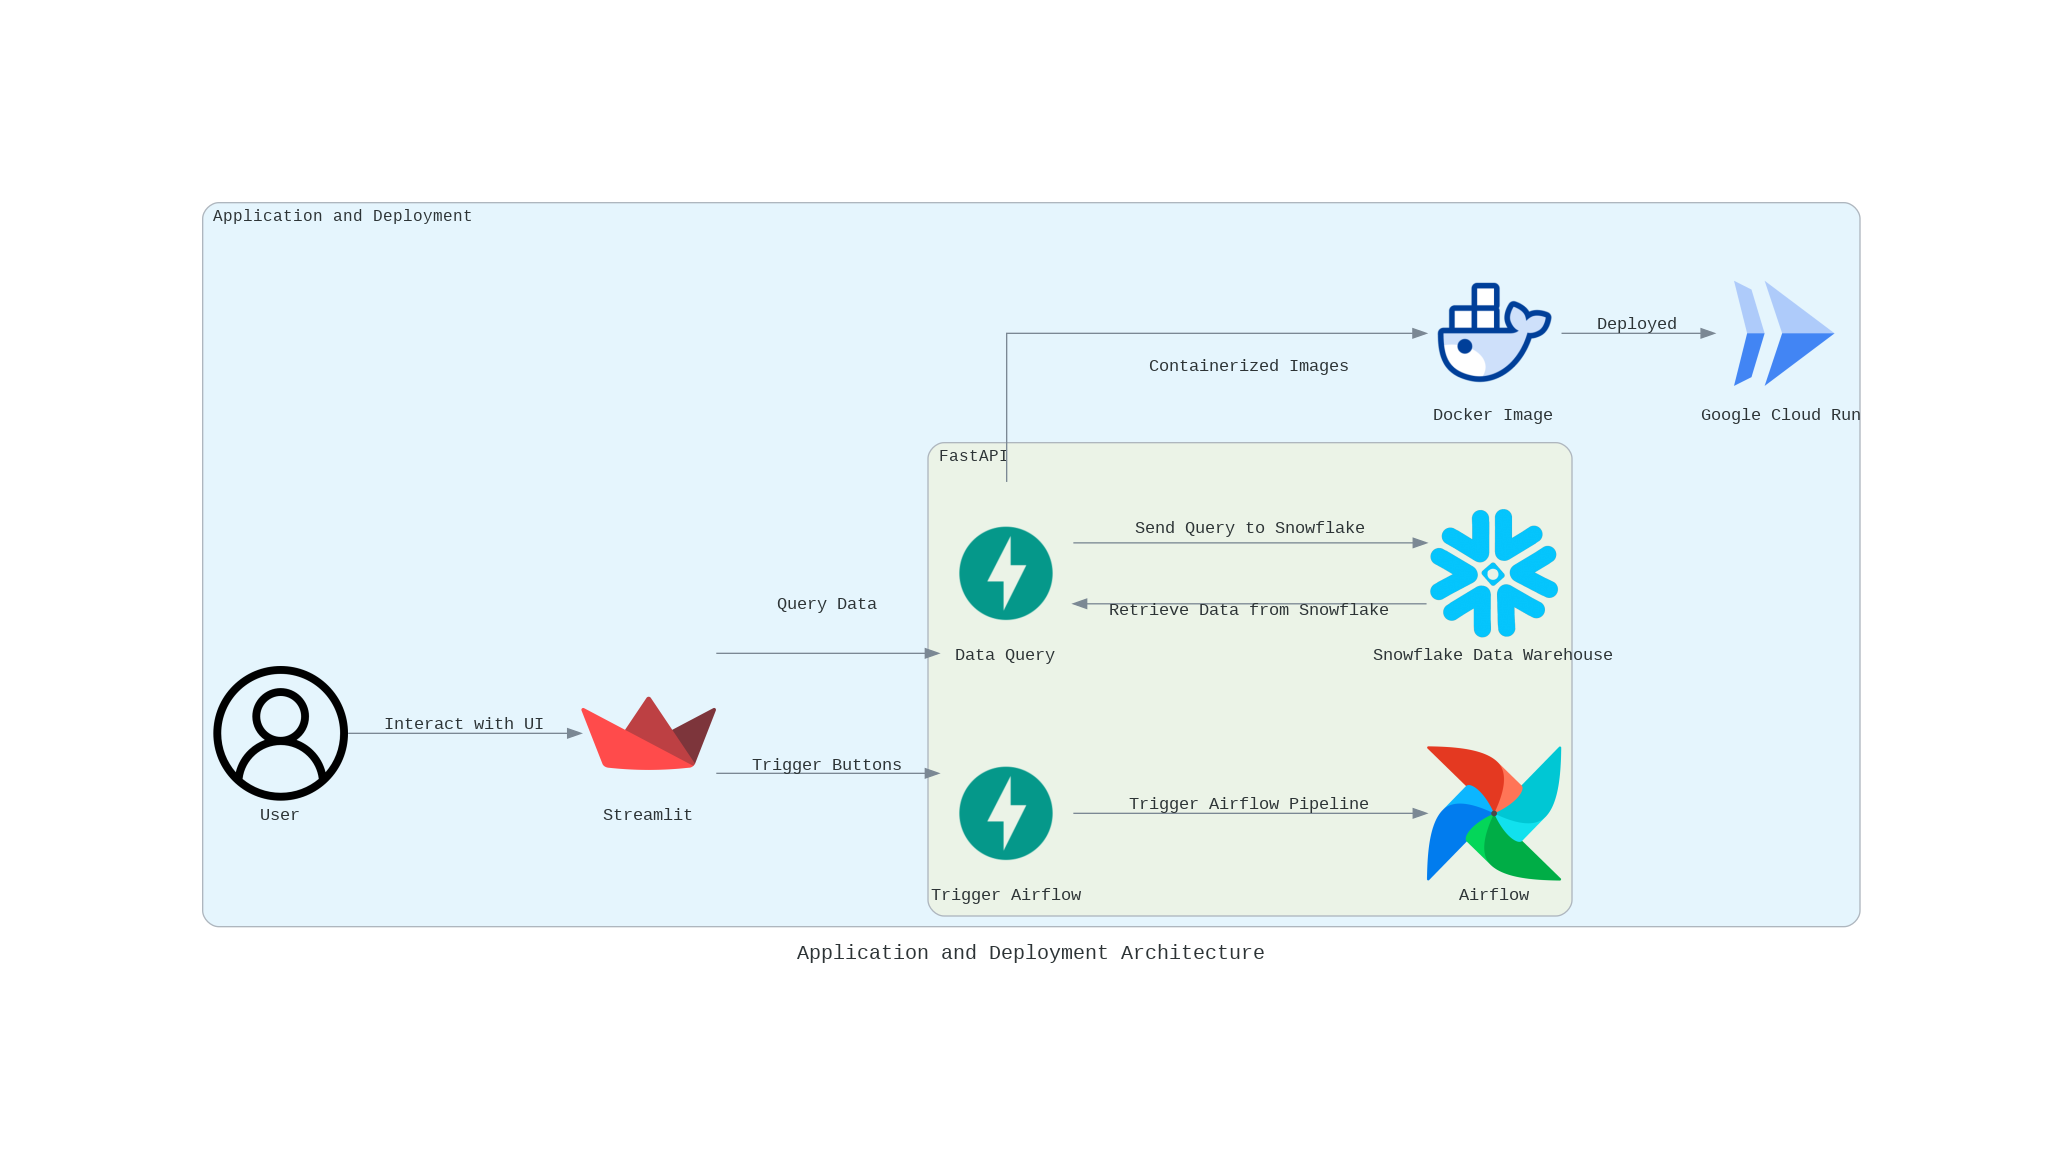
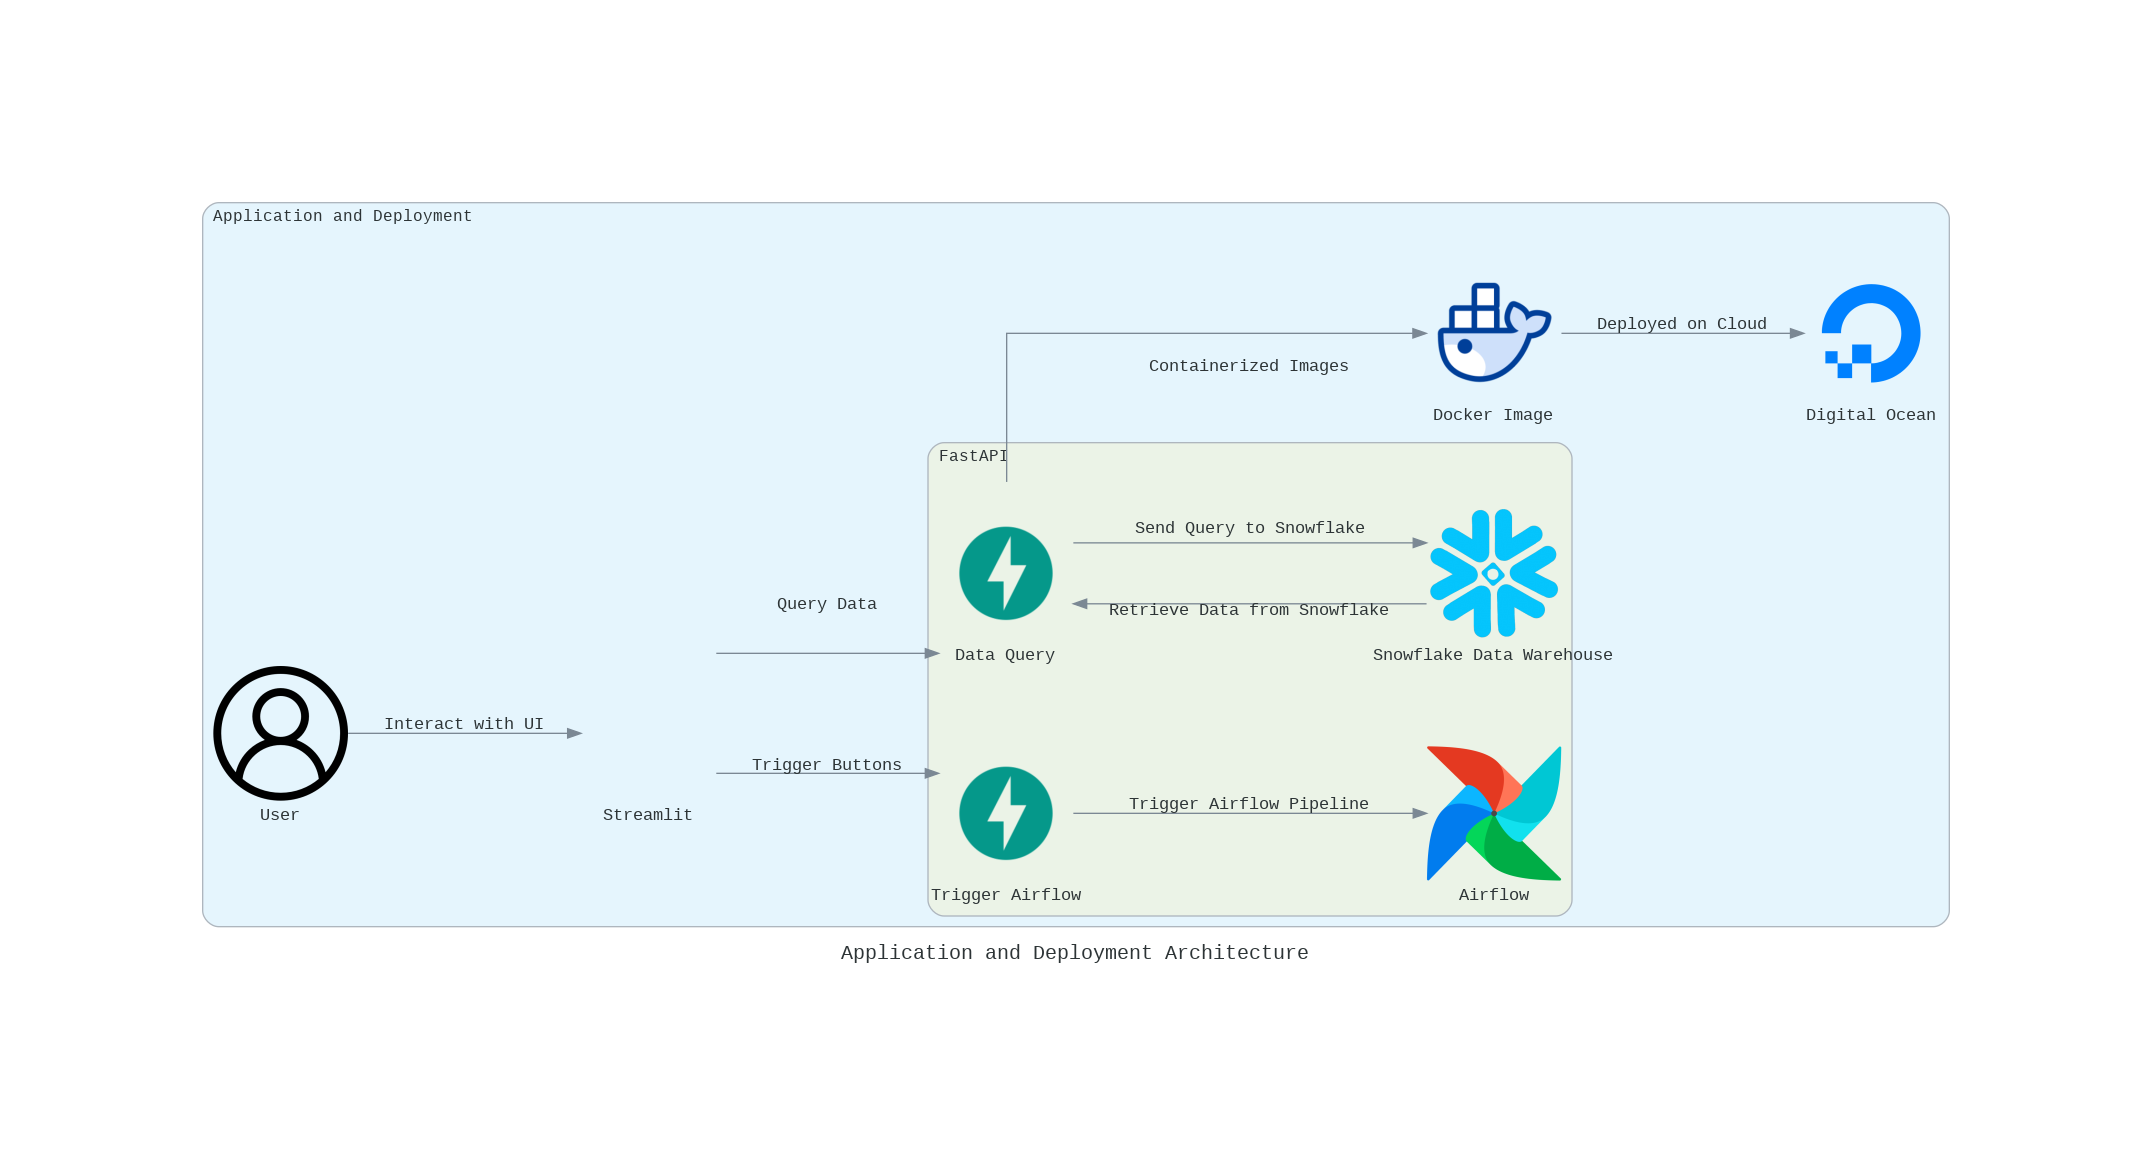
Add Updates

diff --git a/frontend/app.py b/frontend/app.py
@@ -16,7 +16,7 @@ if page == "🏠 Home":
     st.title("📊 Financial Data Processing Pipeline")
     st.write(
         """
-        This project automates the **ETL** process for financial data by scraping data from a website, storing it in **AWS S3**, then extracting, transforming, and loading it into **Snowflake** using **Airflow** DAGs. It features a **Streamlit** frontend and a **FastAPI** backend, with each component containerized using **Docker** and deployed on **Google Cloud Run** for scalability and efficiency. \n
+        This project automates the **ETL** process for financial data by scraping data from a website, storing it in **AWS S3**, then extracting, transforming, and loading it into **Snowflake** using **Airflow** DAGs. It features a **Streamlit** frontend and a **FastAPI** backend, with each component containerized using **Docker** and deployed on **Digital Ocean** for scalability and efficiency. \n
         
         **Aim:** A master financial statement database to support analysts conducting fundamental analysis of US public companies.\n
         
@@ -64,7 +64,7 @@ if page == "🏠 Home":
     st.subheader("Automation, Application and Deployment")
     steps_data3 = {
         "Steps": ["Orchestrate 3 DAGs for data processing", "Develop a frontend and backend application", "Deploy on Cloud"],
-        "Tools Used": ["Airflow, Bash Operator, Docker-Compose.yaml", "Streamlit, FastAPI", "Google Cloud Run, Docker"]
+        "Tools Used": ["Airflow, Bash Operator, Docker-Compose.yaml", "Streamlit, FastAPI", "Digital Ocean, Docker"]
     }
     df_raw3 = pd.DataFrame(steps_data3)
     df_raw3.index = df_raw3.index + 1  # Start index from 1
